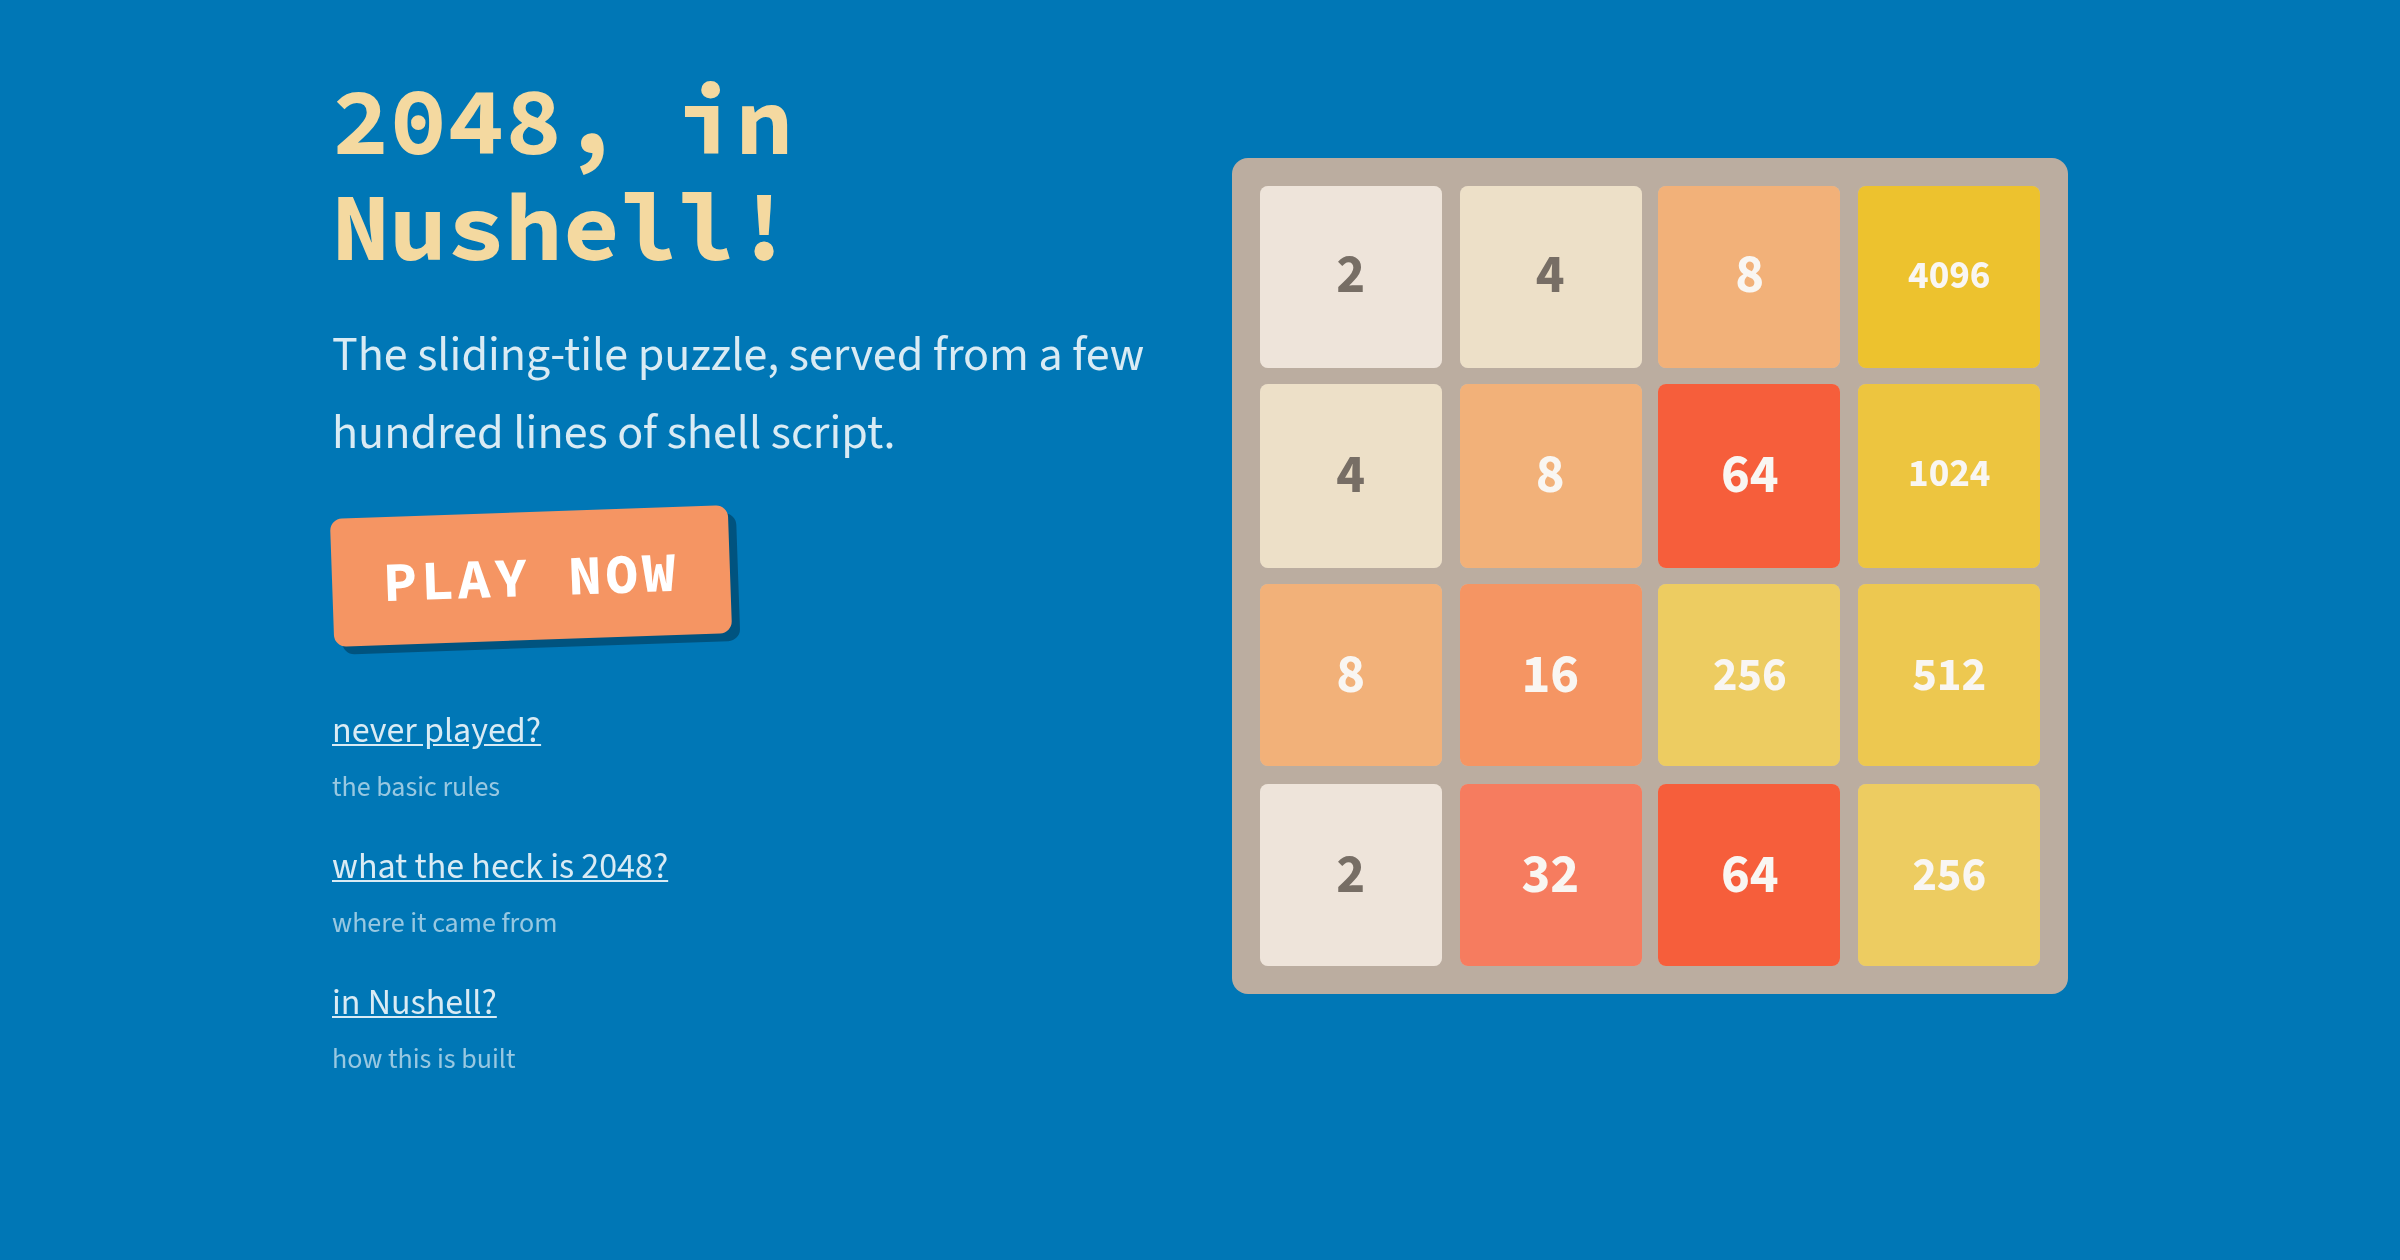
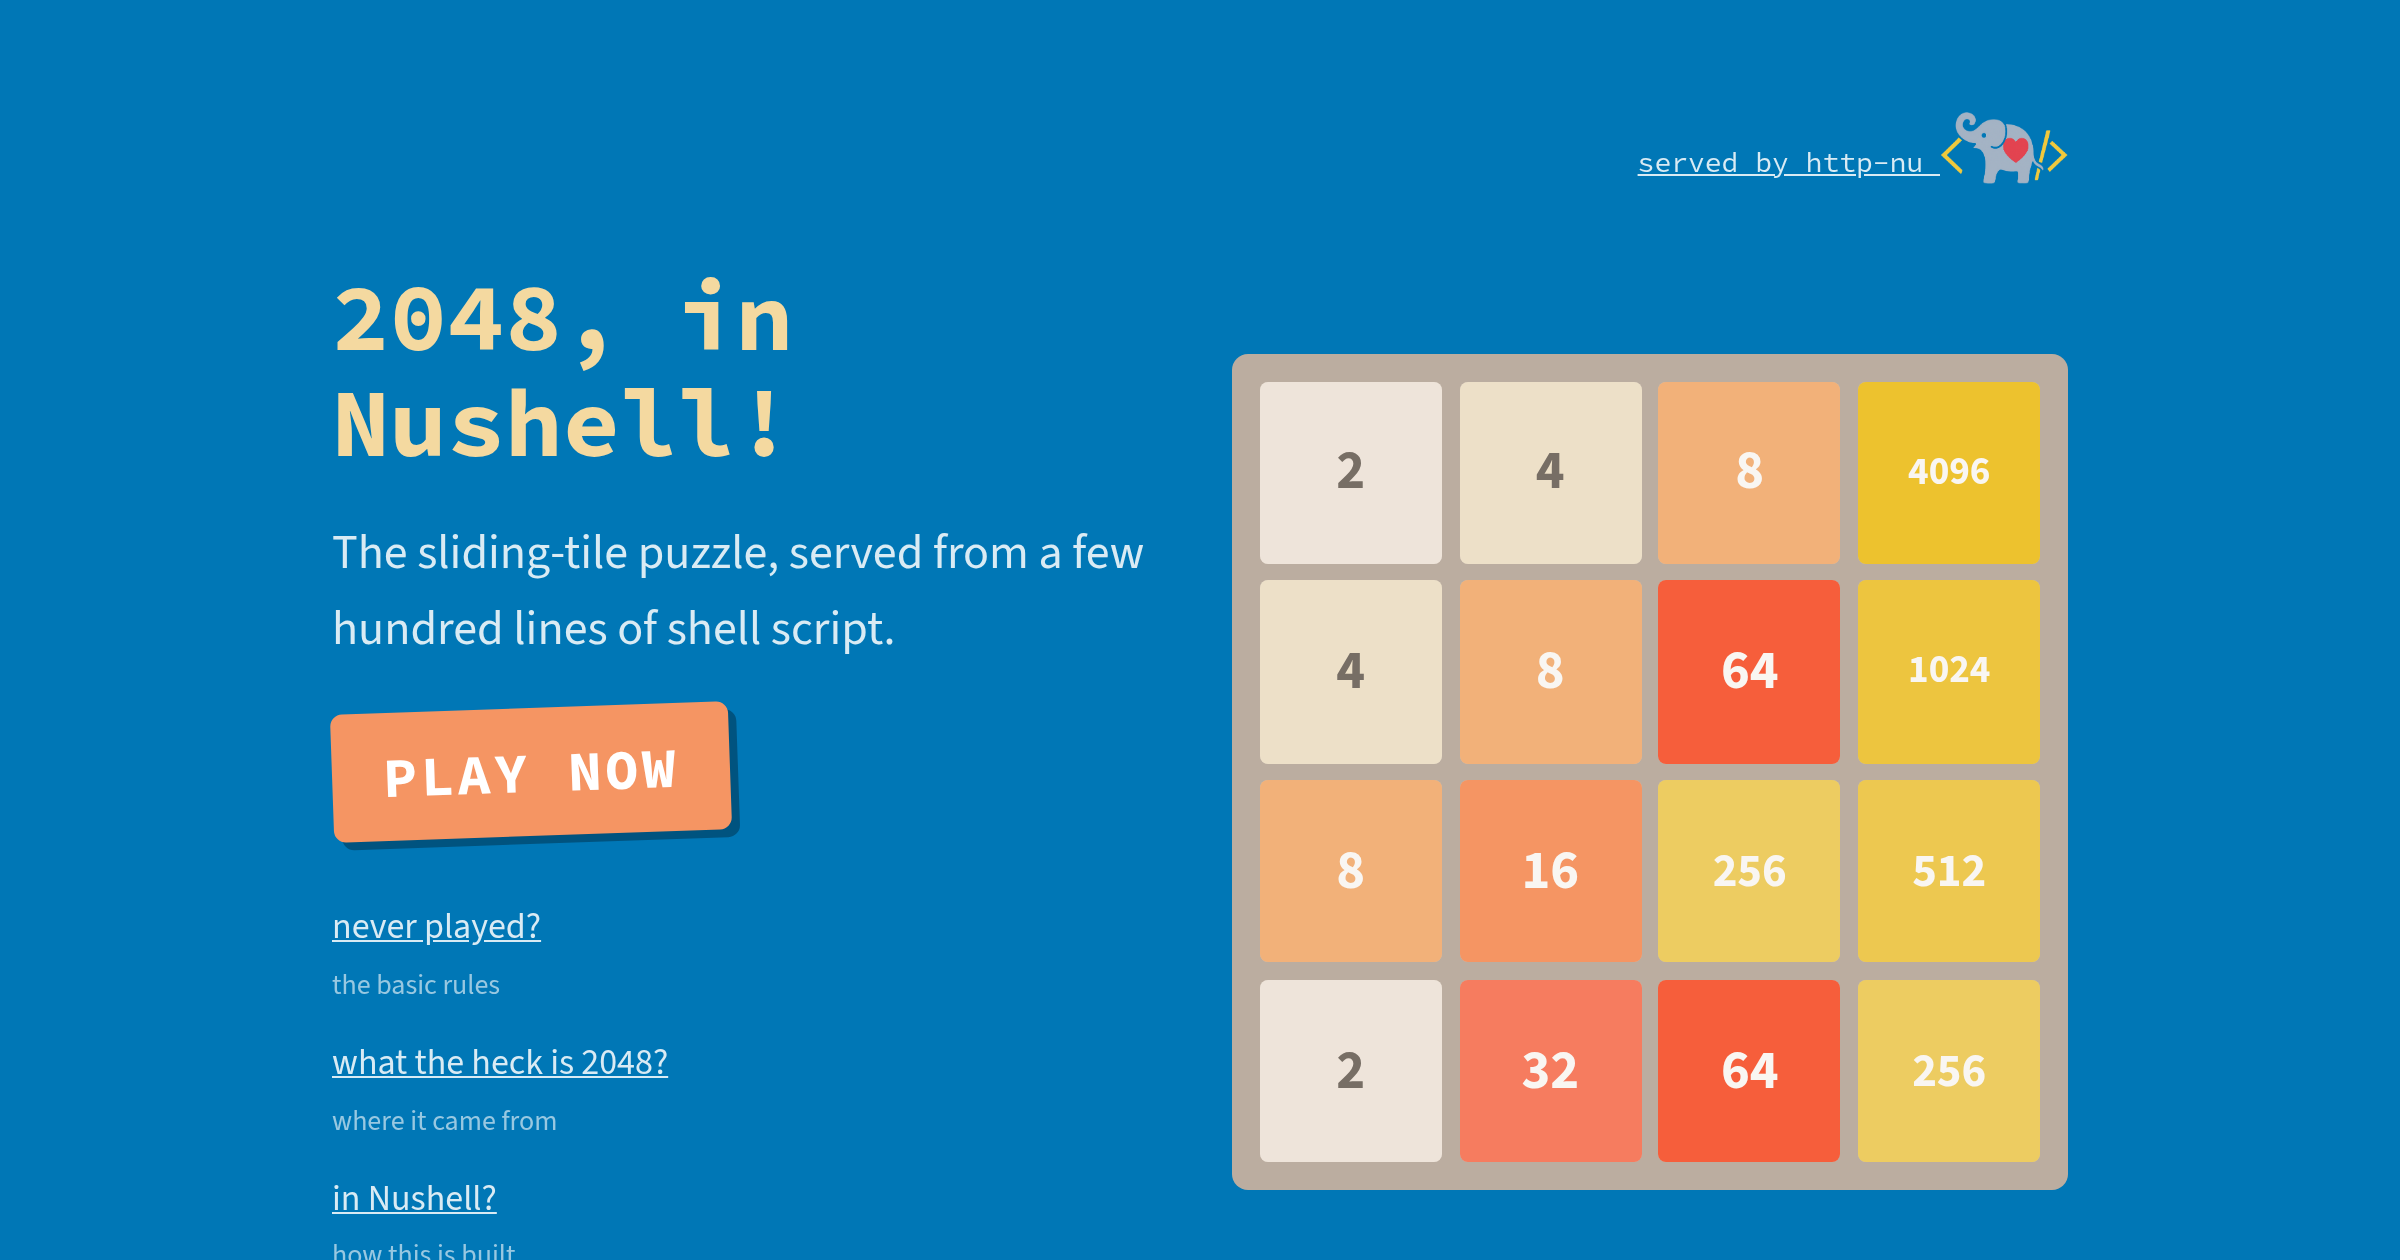
examples/2048: scroll by default; tuner escapes help; prose + asset fixes

diff --git a/examples/2048/static/styles.css b/examples/2048/static/styles.css
@@ -61,8 +61,10 @@
 * { box-sizing: border-box; margin: 0; }
 
 html, body {
-  height: 100dvh;
-  overflow: hidden;
+  min-height: 100dvh;
+  /* Scroll by default. /play is the only page that needs to be
+     viewport-locked (board fills the column, no body scroll); it
+     re-pins height + overflow below via body.play. */
   overscroll-behavior: none;
   /* Stop iOS/Android from inflating text on narrow viewports, which would
      scale up em-sized children (like the footer mascot) unexpectedly. */
@@ -332,10 +334,16 @@ body.play .board > div:not(:empty) {
    tab and slides off-screen via translateX when .is-collapsed is set
    -- the tab stays put so it's always click-able. */
 .vt-tuner {
-  /* Overlays the .help panel (its positioned ancestor). The help [fx]
-     button opens it; the in-tuner "close" button or Esc dismisses. */
+  /* Anchored over the .help panel but allowed to grow past its right
+     edge so the full tuner is legible without forcing help to be wide.
+     position: absolute against .help (top-aligned), min-width matches
+     help, max-width caps growth. Help is the [fx] toggle; the in-tuner
+     "close" button or Esc dismisses. */
   position: absolute;
-  inset: 0;
+  top: 0;
+  left: 0;
+  min-width: 100%;
+  max-width: min(22rem, 90vw);
   z-index: 10;
   font-family: ui-monospace, "SF Mono", "Menlo", "Consolas", monospace;
   font-size: 11px;
@@ -364,10 +372,10 @@ body.play .board > div:not(:empty) {
 }
 .vt-tuner-body {
   width: 100%;
-  height: 100%;
+  max-height: calc(100dvh - 6rem);
   overflow-y: auto;
   padding: 0.75rem 0.875rem;
-  background: rgba(0, 0, 0, 0.55);
+  background: rgba(0, 0, 0, 0.6);
   color: var(--fg);
   border-radius: 0.5rem;
   backdrop-filter: blur(4px);
@@ -578,15 +586,13 @@ body.play .board > div:not(:empty) {
   background: rgba(0, 0, 0, 0.6);
 }
 
-/* /games: page may overflow vertically (many cards) -- let the document
-   scroll and align .page to the top instead of centring it. The base
-   `html, body { overflow: hidden }` rule is scoped away via :has so
-   /play stays viewport-locked. */
-html:has(body.games-view),
-body.games-view {
-  height: auto;
-  min-height: 100dvh;
-  overflow: auto;
+/* /play viewport-locks its viewport so the board sits centered and
+   the page can't scroll-bounce on touch. Every other page scrolls
+   naturally (default html/body rule). */
+html:has(body.play),
+body.play {
+  height: 100dvh;
+  overflow: hidden;
 }
 body.games-view {
   justify-content: flex-start;
@@ -782,8 +788,8 @@ body.play, body.games-view {
    /design markdown story. */
 .prose {
   max-width: 65ch;
-  font-size: var(--text-md);
-  line-height: 1.65;
+  font-size: 1.2em;  /* ~21.6px relative to body's 18px -- article body */
+  line-height: 1.6;
 }
 .prose > * + * { margin-top: 1em; }
 .prose h2 {